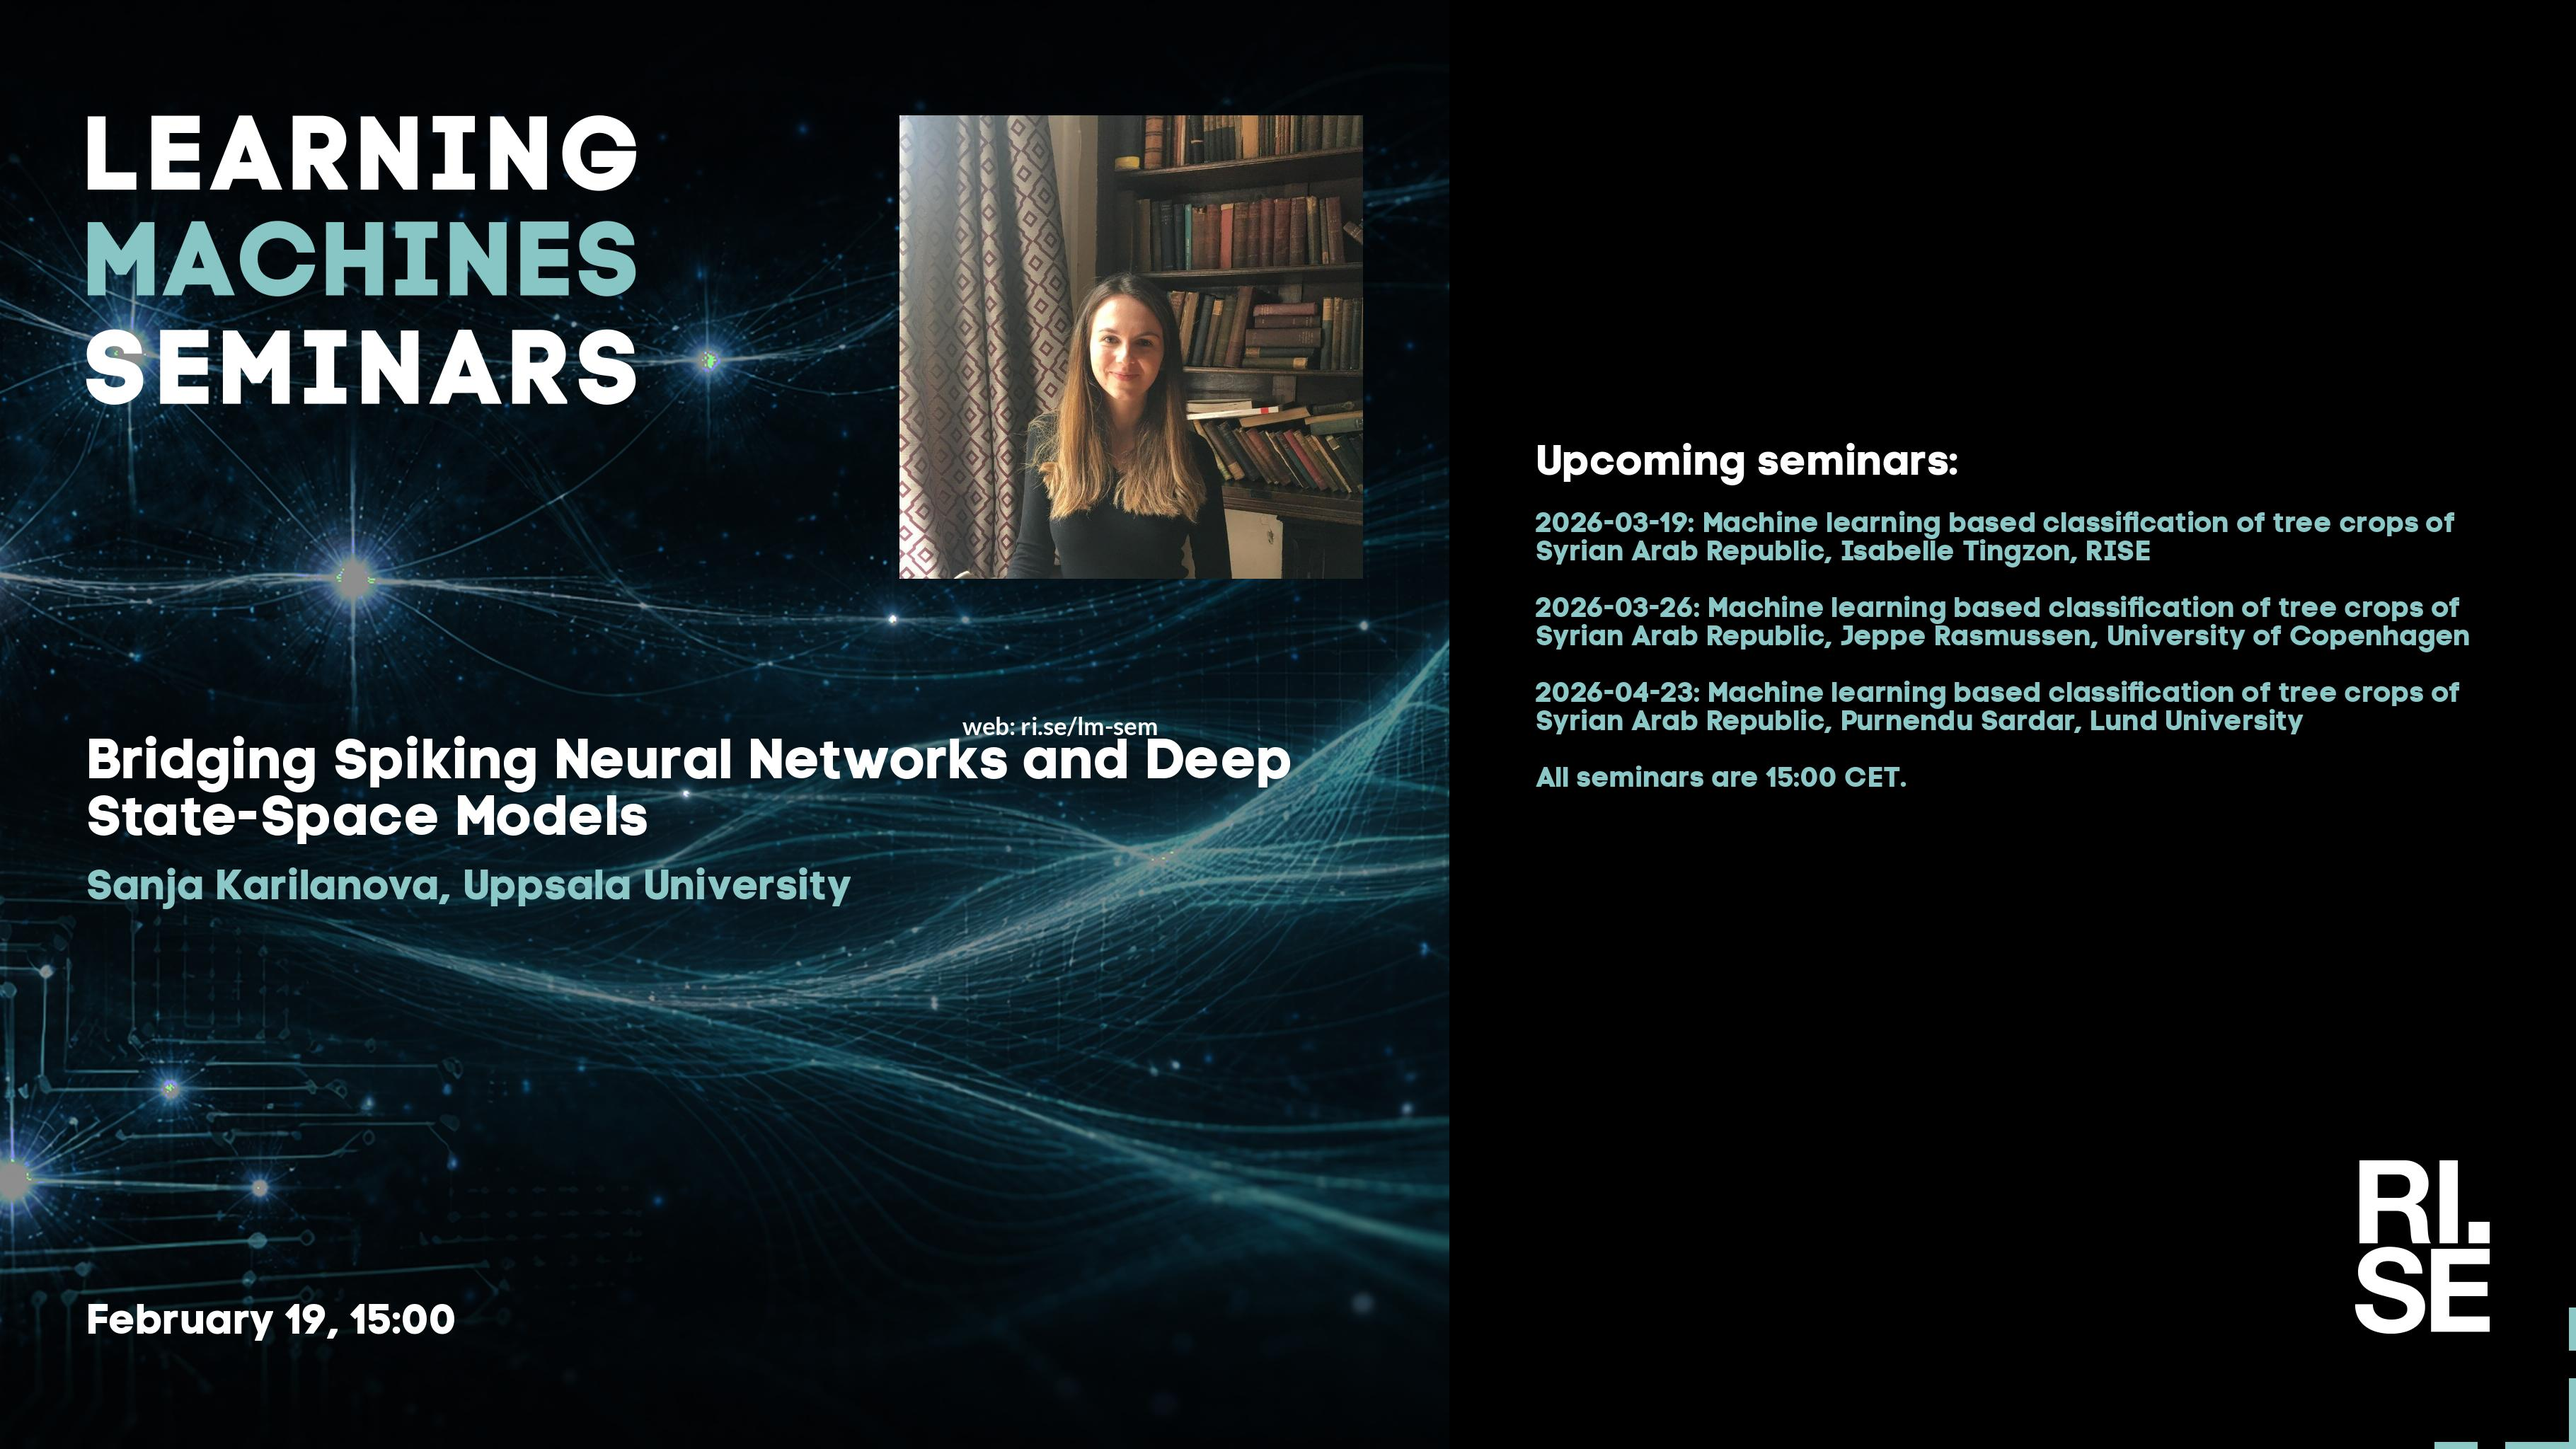
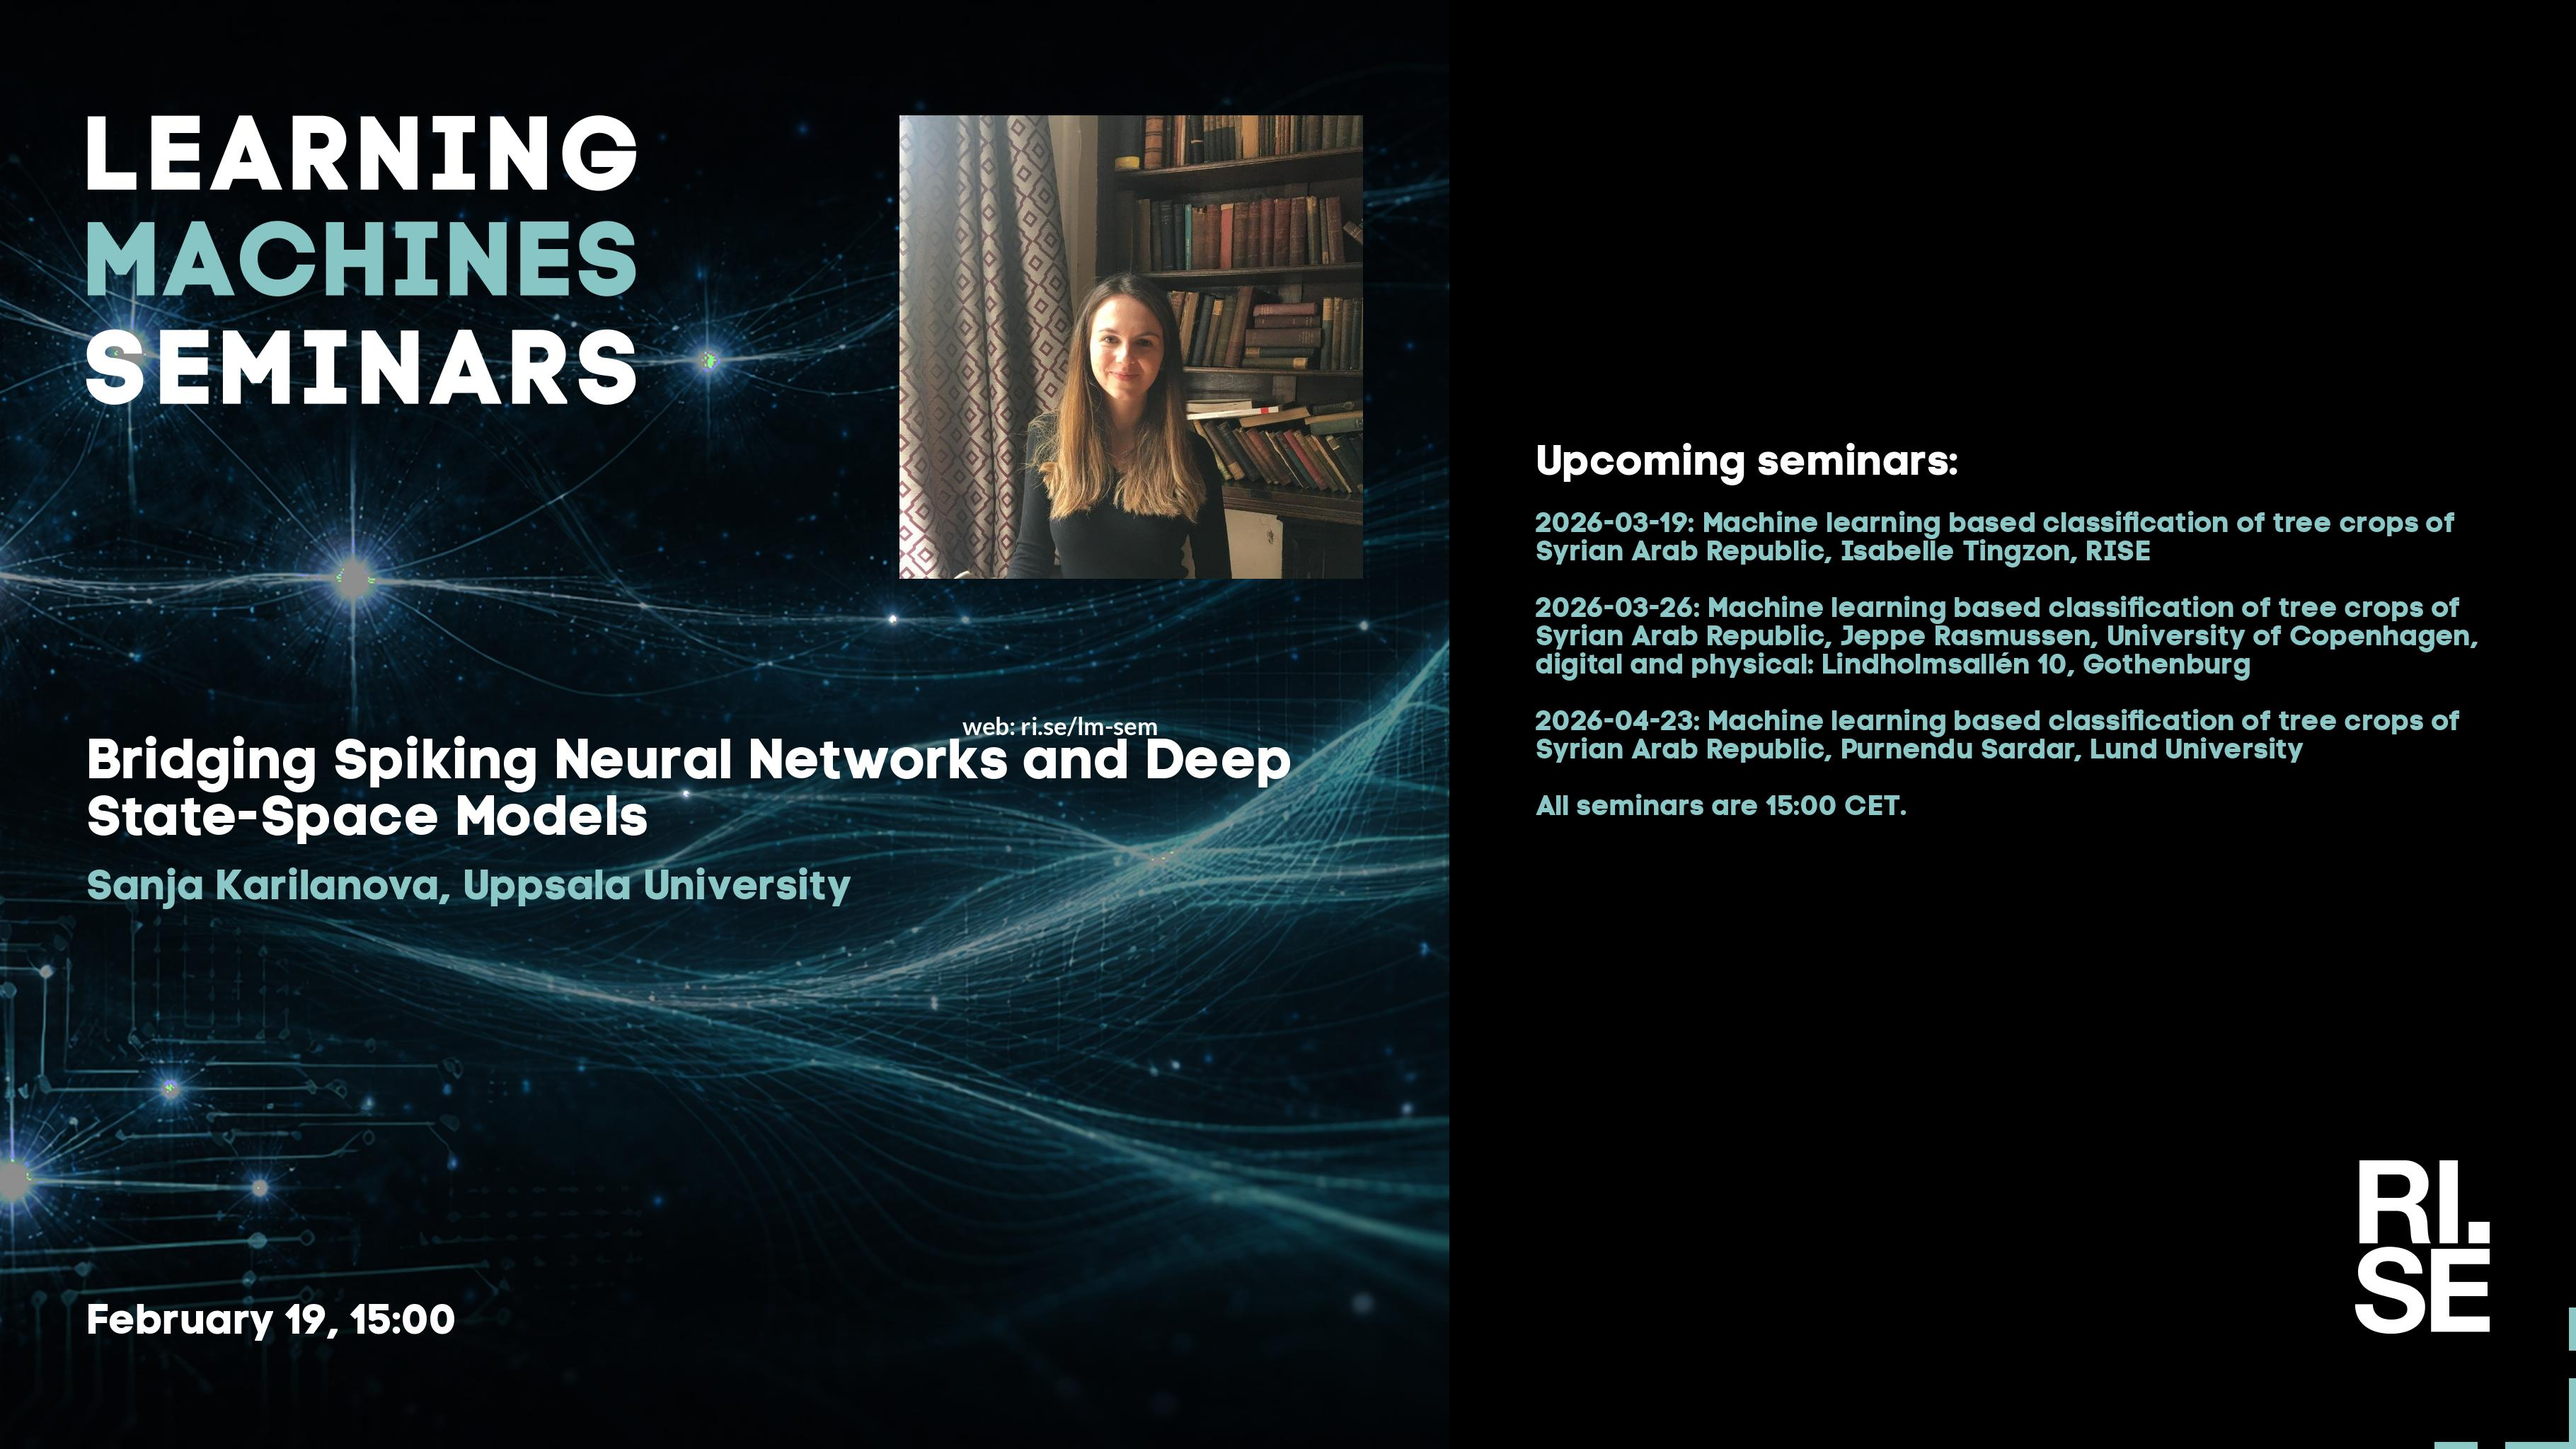
Updated plan on web site.

Changed region(s): [[0.5898, 0.4375, 0.9624, 0.5625]]

diff --git a/lm/2026-03-26.md b/lm/2026-03-26.md
@@ -24,9 +24,13 @@ His research spans a wide range of species—from farm animals such as pigs to m
 
 2024 he published an article in Science exploring how AI and bioacoustics can revolutionize the monitoring of animal populations. He is currently based at the University of Copenhagen working on detecting and classifying vocalizations from narwhales in Greenland.
 
-**Location:** This is an online seminar. Connect using Zoom.
+**Location:** Lindholmsallén 10, Gothenburg, or online using Zoom.
 
 **Date:** 2026-03-26 15:00
+
+
+
+This seminar will have an in-person presence at RISE office in Gothenburg located at [Lindholmsallén 10](https://maps.app.goo.gl/wt4QAqnbSHF8i7Fu5), third floor. Make sure that you arrive in good time and ring the bell at the door.
 
 
 **[Register here!](registration-link)**

diff --git a/lm/2026-02-19.md b/lm/2026-02-19.md
@@ -23,7 +23,7 @@ Welcome to this week's Learning Machines seminar.
 **Upcoming seminars:**
 
 * 2026-03-19: *Machine learning based classification of tree crops of Syrian Arab Republic*, Isabelle Tingzon, RISE
-* 2026-03-26: *Machine learning based classification of tree crops of Syrian Arab Republic*, Jeppe Rasmussen, University of Copenhagen
+* 2026-03-26: *Machine learning based classification of tree crops of Syrian Arab Republic*, Jeppe Rasmussen, University of Copenhagen, **digital and physical: Lindholmsallén 10, Gothenburg**
 * 2026-04-23: *Machine learning based classification of tree crops of Syrian Arab Republic*, Purnendu Sardar, Lund University
 * All seminars are 15:00 CET.
 

diff --git a/lm/2026-03-19.md b/lm/2026-03-19.md
@@ -27,7 +27,7 @@ In parallel, the presentation showcases UNICEF Giga’s mission to connect every
 
 **Upcoming seminars:**
 
-* 2026-03-26: *Machine learning based classification of tree crops of Syrian Arab Republic*, Jeppe Rasmussen, University of Copenhagen
+* 2026-03-26: *Machine learning based classification of tree crops of Syrian Arab Republic*, Jeppe Rasmussen, University of Copenhagen, **digital and physical: Lindholmsallén 10, Gothenburg**
 * 2026-04-23: *Machine learning based classification of tree crops of Syrian Arab Republic*, Purnendu Sardar, Lund University
 * All seminars are 15:00 CET.
 
